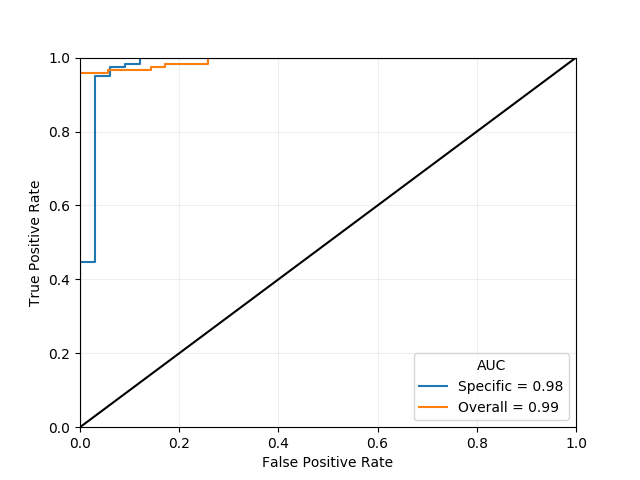
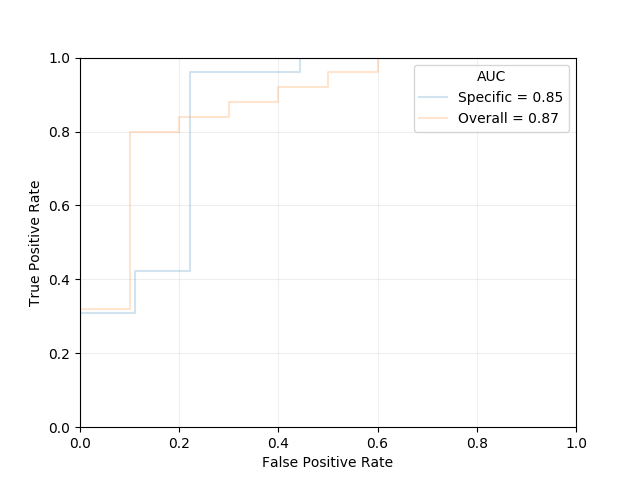
Mean ROC Implemented

diff --git a/utils.py b/utils.py
@@ -1,7 +1,10 @@
-import numpy as np
+import pdb
 import torch
+import numpy as np
+from scipy import interp
 import torch.nn.functional as F
 import matplotlib.pyplot as plt
+from scipy.integrate import trapz
 from sklearn.metrics import roc_curve, roc_auc_score
 
 
@@ -23,9 +26,9 @@ def train_and_test_set(data, labels, groups, i, k):
 
 	return spec_xtrain, spec_strain, spec_ptrain, spec_xtest, spec_stest, spec_ptest
 
-def Loss(pred, strain, prob, ptrain, stest, ptest, model, xtest, epoch):
+def Loss(pred, strain, prob, ptrain, stest, ptest, model, xtest, epoch, best):
 
-	mse_scale = 1e5
+	mse_scale = 1.0
 
 	mse  = F.mse_loss(pred, strain)/mse_scale
 	bce  = F.binary_cross_entropy(prob, ptrain)
@@ -33,7 +36,7 @@ def Loss(pred, strain, prob, ptrain, stest, ptest, model, xtest, epoch):
 	loss  = mse + bce
 
 	#Evaluate
-	if (epoch+1)%100 == 0:
+	if (epoch+1)%1 == 0:
 
 		model.eval() # This turns off BatchNorm and Dropout, as will be done at deployment
 		tprob, tpred = model(xtest)
@@ -49,10 +52,10 @@ def Loss(pred, strain, prob, ptrain, stest, ptest, model, xtest, epoch):
 
 		auc, tauc = AUC(ptrain.data.numpy(), ptest.data.numpy(), prob.data.numpy(), tprob.data.numpy())
 
+	if (epoch+1)%100 == 0:
+		print(f'epoch = {epoch+1}; mse = {mse:.3f}; bce = {bce:.3f}; tmse = {tmse:.3f}; tbce = {tbce:.3f}; acc = {acc:.3f}; test acc = {tacc:.3f}; AUC = {auc:.4f}; test AUC = {tauc:.4f}, best test AUC = {best:.3f}')
 
-		print(f'epoch = {epoch+1}; mse = {mse:.3f}; bce = {bce:.3f}; tmse = {tmse:.3f}; tbce = {tbce:.3f}; acc = {acc:.3f}; test acc = {tacc:.3f}; AUC = {auc:.2f}, test AUC = {tauc:2f}')
-
-	return loss
+	return loss, tauc
 
 
 def AUC(ytrain, ytest, prob, tprob):
@@ -62,8 +65,9 @@ def AUC(ytrain, ytest, prob, tprob):
 	return AUCtrain, AUCtest
 
 
-def AUCplot(spec_model, over_model, spec_xtest, over_xtest, yspec, yover, k):
+def AUCplot(spec_model, over_model, spec_xtest, over_xtest, yspec, yover, spec_rocs, over_rocs, k, K):
 
+	# Gather Probabilities from Models
 	spec_model.eval() # This turns off BatchNorm and Dropout, as will be done at deployment
 	over_model.eval() # This turns off BatchNorm and Dropout, as will be done at deployment
 	probspec, _ = spec_model(spec_xtest)
@@ -71,17 +75,21 @@ def AUCplot(spec_model, over_model, spec_xtest, over_xtest, yspec, yover, k):
 	spec_model.train() #This turns BatchNorm and Dropout back on
 	over_model.train() #This turns BatchNorm and Dropout back on
 
+	# Generate ROC curves
 	fpr_spec, tpr_spec, thresholds_spec = roc_curve(yspec.data.numpy(), probspec.data.numpy())
 	fpr_over, tpr_over, thresholds_over = roc_curve(yover.data.numpy(), probover.data.numpy())
-
+	spec_rocs.append([fpr_spec, tpr_spec])
+	over_rocs.append([fpr_over, tpr_over])
 
 	AUCspec = roc_auc_score(yspec.data.numpy(), probspec.data.numpy())
 	AUCover = roc_auc_score(yover.data.numpy(), probover.data.numpy())
 
-	plt.figure()
-	plt.plot(fpr_spec, tpr_spec, label = f'Specific = {AUCspec:.2f}')
-	plt.plot(fpr_over, tpr_over, label =  f'Overall = {AUCover:.2f}')
-	plt.plot([0,1],[0,1],'k-')
+	plt.figure(0)
+	plt.clf()
+	plt.plot(fpr_spec, tpr_spec, label = f'Specific = {AUCspec:.2f}', alpha = 0.2)
+	plt.plot(fpr_over, tpr_over, label =  f'Overall = {AUCover:.2f}', alpha = 0.2)
+	if k == 0:
+		plt.plot([0,1],[0,1],'k-', alpha = 0.2)
 	plt.grid(alpha=0.2)
 	plt.xlim(0,1)
 	plt.ylim(0,1)
@@ -90,7 +98,101 @@ def AUCplot(spec_model, over_model, spec_xtest, over_xtest, yspec, yover, k):
 	plt.legend(title='AUC')
 	plt.savefig(f'ROCs/ROC_{k}.png')
 
+	if (k+1) == K:
+		mean_fpr = np.linspace(0,1,10000)
+
+		mean_spec_roc = []
+
+		mean_spec_roc = []
+
+
+		for ROC in spec_rocs:
+   			 mean_spec_tpr = interp(mean_fpr, ROC[0], ROC[1])
+   			 mean_spec_tpr[0] = 0.0
+   			 mean_spec_roc.append(mean_spec_tpr)
+
+		mean_spec_roc = np.array(mean_spec_roc)
+
+		std_tpr = np.std(mean_spec_roc, axis=0)
+		mean_spec_roc = np.mean(mean_spec_roc, axis=0)
+		mean_spec_roc[-1] = 1.0
+		spec_top = np.minimum(mean_spec_roc + std_tpr, 1)
+		spec_bot = np.maximum(mean_spec_roc - std_tpr, 0)
+		#pdb.set_trace()
+		#pdb.set_trace()
+		
+		mean_auc = trapz(mean_spec_roc, mean_fpr)
+		aucs = [trapz(ROC[1], ROC[0]) for ROC in spec_rocs]
+		std_auc = np.std(aucs)
+
+		spec_fig, spec_ax = plt.subplots()
+		
+
+		spec_ax.plot(mean_fpr, mean_spec_roc, color ='C0', label=f'Mean ROC, AUC = {mean_auc:.2f} $\pm$ {std_auc:.2f})')
+		for ROC in spec_rocs:
+			spec_ax.plot(ROC[0], ROC[1], alpha=0.2)
+		spec_ax.fill_between(mean_fpr, spec_bot, spec_top, color='C0', alpha=.1, label=f'$\pm$ 1 std')
+		spec_ax.grid(alpha=0.2)
+		spec_ax.legend()
+		spec_ax.set_xlabel('False Positive Rate')
+		spec_ax.set_ylabel('True Positive Rate')
+		spec_ax.title.set_text("Disease Specific Survival Model")
+		plt.savefig('DSS_Mean_ROC.png', dpi = 230)
+
+
+
+		mean_over_roc = []
+
+		for ROC in over_rocs:
+   			 mean_over_tpr = interp(mean_fpr, ROC[0], ROC[1])
+   			 mean_over_tpr[0] = 0.0
+   			 mean_over_roc.append(mean_over_tpr)
+
+		mean_over_roc = np.array(mean_over_roc)
+		std_tpr = np.std(mean_over_roc, axis=0)
+		mean_over_roc = np.mean(mean_over_roc, axis=0)
+		mean_over_roc[-1] = 1.0
+		over_top = np.minimum(mean_over_roc + std_tpr, 1) 
+		over_bot = np.maximum(mean_over_roc - std_tpr, 0) 
+
+		
+		mean_auc = trapz(mean_over_roc, mean_fpr)
+		aucs = [trapz(ROC[1], ROC[0]) for ROC in spec_rocs]
+		std_auc = np.std(aucs)
+
+		over_fig, over_ax = plt.subplots()
+		over_ax.plot(mean_fpr, mean_over_roc, color ='C0', label=f'Mean ROC, AUC = {mean_auc:.2f} $\pm$ {std_auc:.2f})')
+		for ROC in over_rocs:
+			over_ax.plot(ROC[0], ROC[1], alpha=0.2)
+		over_ax.fill_between(mean_fpr, over_bot, over_top, color='C0', alpha=.1, label=f'$\pm$ 1 std')
+		over_ax.grid(alpha=0.2)
+		over_ax.legend()
+		over_ax.set_xlabel('False Positive Rate')
+		over_ax.set_ylabel('True Positive Rate')
+		over_ax.title.set_text("Overall Survival Model")
+		plt.savefig('Overall_Mean_ROC.png', dpi = 230)
+
+		both_fig, both_ax = plt.subplots()
+		both_ax.plot(mean_fpr, mean_spec_roc, color ='C0', label=f'Mean DSS AUC = {mean_auc:.2f} $\pm$ {std_auc:.2f})')
+		both_ax.fill_between(mean_fpr, spec_bot, spec_top, color='C0', alpha=.1)#, label=f'$\pm$ 1 DSS std')
+		both_ax.plot(mean_fpr, mean_over_roc, color ='C1', label=f'Mean Overall AUC = {mean_auc:.2f} $\pm$ {std_auc:.2f})')
+		both_ax.fill_between(mean_fpr, over_bot, over_top, color='C1', alpha=.1)# label=f'$\pm$ 1 OVR std')
+		both_ax.grid(alpha=0.2)
+		both_ax.legend(loc=4)
+		both_ax.set_xlabel('False Positive Rate')
+		both_ax.set_ylabel('True Positive Rate')
+		both_ax.title.set_text("DSS and Overal Survival Models")
+		plt.savefig('Both_Mean_ROC.png', dpi = 230)
+
+
+
+		
+
+
+
 	print(f'\n\nGenerated Specific vs Overall ROC plot for test set #{k} using lastest models in ./ROCs/\n\n')
+
+	return spec_rocs, over_rocs
 
 
 

diff --git a/train.py b/train.py
@@ -1,31 +1,42 @@
 import torch
 import pdb
+import copy
 import numpy as np
 from model import *
 from utils import *
 
 
+
 # Training Parameters
-k = 10				# Groups for k-fold validation
-width = 1024		# Width of model
-epochs = 300		# Training epochs for each fold
+k = 5				# Groups for k-fold validation
+width = 256 		# Width of model
+epochs = 5000		# Training epochs for each fold
+L1 = 1e-4
 
 
 # Loading preprocessed data and splitting
 Data = np.load("Data.npz")
 Data, spec, over, IDs = torch.Tensor(Data['Data']), torch.Tensor(Data['spec']), torch.Tensor(Data['over']), Data['IDs']
 groups1 = torch.chunk(torch.randperm(len(IDs)), k)
-groups2 = torch.chunk(torch.randperm(len(IDs)), k)
+groups2 = groups1 #torch.chunk(torch.randperm(len(IDs)), k)
 
+# Lists for collecting ROCs
+spec_rocs = []
+over_rocs = []
 
 # K-fold validation
 for i in range(k):
 
-	# Build k-th specific model, train/test set and train
-	spec_xtrain, spec_strain, spec_ptrain, spec_xtest, spec_stest, spec_ptest = train_and_test_set(Data, spec, groups1, i, k)
-
+	# Build k-th models
 	spec_model = Model(width)
-	spec_optim = torch.optim.Adam(spec_model.parameters(), lr = 3e-4)
+	spec_optim = torch.optim.Adam(spec_model.parameters(), lr = 3e-4, weight_decay = L1)
+	over_model = copy.deepcopy(spec_model)
+	over_optim = torch.optim.Adam(over_model.parameters(), lr = 3e-4, weight_decay = L1)
+
+	# Specific train/test set
+	spec_xtrain, spec_strain, spec_ptrain, spec_xtest, spec_stest, spec_ptest = train_and_test_set(Data, spec, groups1, i, k)
+	best_spec = 0
+
 
 	print(f'Training Disease Specific Survival Model #{i} ')
 	for epoch in range(epochs):
@@ -34,21 +45,26 @@ for i in range(k):
 		spec_prob, spec_pred = spec_model(spec_xtrain)
 		
 		# Compute loss
-		spec_loss = Loss(spec_pred, spec_strain, spec_prob, spec_ptrain, spec_stest, spec_ptest, spec_model, spec_xtest, epoch)
-		
+		spec_loss, spec_tauc = Loss(spec_pred, spec_strain, spec_prob, spec_ptrain, spec_stest, spec_ptest, spec_model, spec_xtest, epoch, best_spec)
+		if spec_tauc > best_spec:
+			#print("New Best Specific")
+			best_spec = spec_tauc
+			best_spec_model = copy.deepcopy(spec_model)
+
 		# Compute derivative, step, and reset
 		spec_loss.backward()
 		spec_optim.step()
 		spec_optim.zero_grad()
+	print(f'Best Specific Model has test AUC = {best_spec:.3f}')
 		
 		
 
-	# Build k-th overall model, train/test set and train
+	# Build train/test set and train
 
 	over_xtrain, over_strain, over_ptrain, over_xtest, over_stest, over_ptest = train_and_test_set(Data, over, groups2, i, k)
 
-	over_model = Model(width)
-	over_optim = torch.optim.Adam(over_model.parameters(), lr = 3e-4)
+	#over_model = Model(width)
+	best_over = 0
 
 	print(f'Training Overall Survival Model #{i} ')
 	for epoch in range(epochs):
@@ -57,16 +73,20 @@ for i in range(k):
 		over_prob, over_pred = over_model(over_xtrain)
 
 		# Compute loss
-		over_loss = Loss(over_pred, over_strain, over_prob, over_ptrain, over_stest, over_ptest, over_model, over_xtest, epoch)
+		over_loss, over_tauc = Loss(over_pred, over_strain, over_prob, over_ptrain, over_stest, over_ptest, over_model, over_xtest, epoch, best_over)
+		if over_tauc > best_over:
+			#print("New Best Overall")
+			best_over = over_tauc
+			best_over_model = copy.deepcopy(over_model)
 
 		# Compute derivative, step, and reset
 		over_loss.backward()
 		over_optim.step()
 		over_optim.zero_grad()
+	print(f'Best Overall Model has test AUC = {best_over:.3f}')
 
 
-	AUCplot(spec_model, over_model, spec_xtest, over_xtest, spec_ptest, over_ptest, k)
-
+	spec_rocs, over_rocs = AUCplot(best_spec_model, best_over_model, spec_xtest, over_xtest, spec_ptest, over_ptest, spec_rocs, over_rocs, i, k)
 
 
 

diff --git a/model.py b/model.py
@@ -30,15 +30,15 @@ class Model(nn.Module):
 
 		self.pred = nn.Sequential(
 			nn.Linear(2*self.width, self.width), nn.ReLU(inplace=True), nn.BatchNorm1d(self.width), nn.Dropout(self.DO),
-			nn.Linear(self.width, self.width), nn.ReLU(inplace=True), nn.BatchNorm1d(self.width), nn.Dropout(self.DO),
-			nn.Linear(self.width, self.width), nn.ReLU(inplace=True), nn.BatchNorm1d(self.width), nn.Dropout(self.DO),
-			nn.Linear(self.width, 1))
+			nn.Linear(self.width, self.width//2), nn.ReLU(inplace=True), nn.BatchNorm1d(self.width//2), nn.Dropout(self.DO),
+			nn.Linear(self.width//2, self.width//4), nn.ReLU(inplace=True), nn.BatchNorm1d(self.width//4),
+			nn.Linear(self.width//4, 1))
 
 		self.prob = nn.Sequential(
 			nn.Linear(2*self.width, self.width), nn.ReLU(inplace=True), nn.BatchNorm1d(self.width), nn.Dropout(self.DO),
-			nn.Linear(self.width, self.width), nn.ReLU(inplace=True), nn.BatchNorm1d(self.width), nn.Dropout(self.DO),
-			nn.Linear(self.width, self.width), nn.ReLU(inplace=True), nn.BatchNorm1d(self.width), nn.Dropout(self.DO),
-			nn.Linear(self.width, 1))
+			nn.Linear(self.width, self.width//2), nn.ReLU(inplace=True), nn.BatchNorm1d(self.width//2), nn.Dropout(self.DO),
+			nn.Linear(self.width//2, self.width//4), nn.ReLU(inplace=True), nn.BatchNorm1d(self.width//4),
+			nn.Linear(self.width//4, 1))
 
 		self.width *= 2
 
